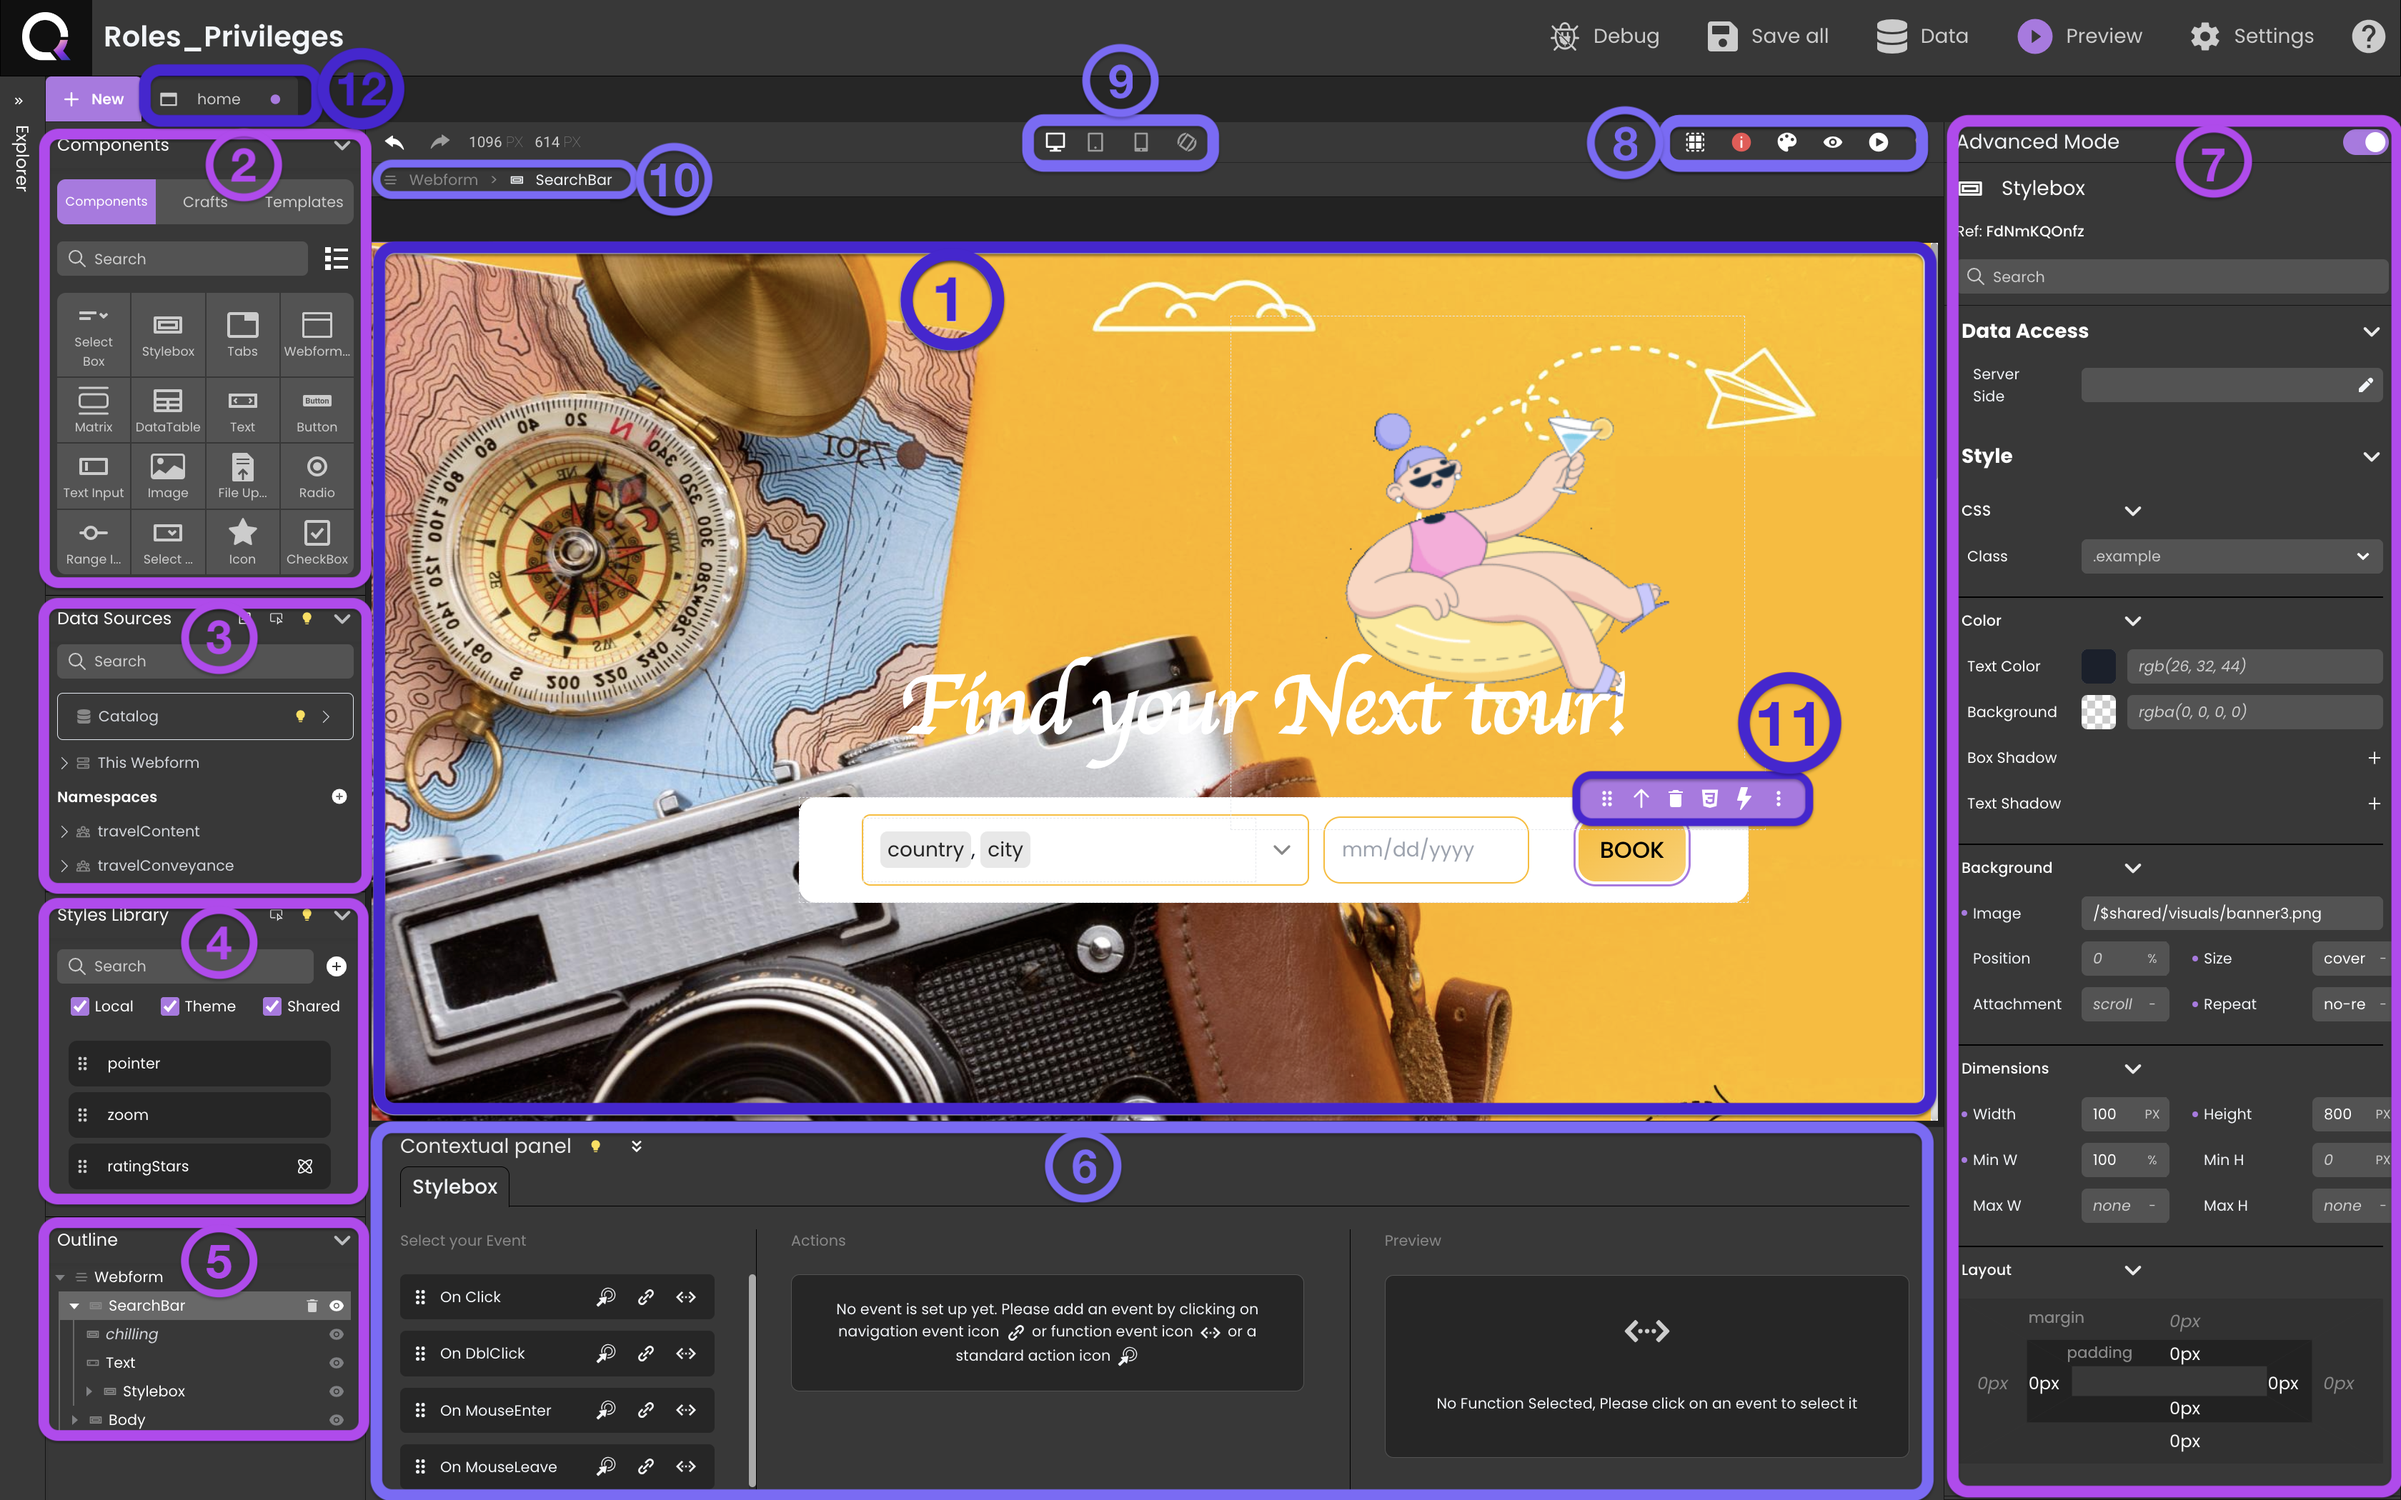
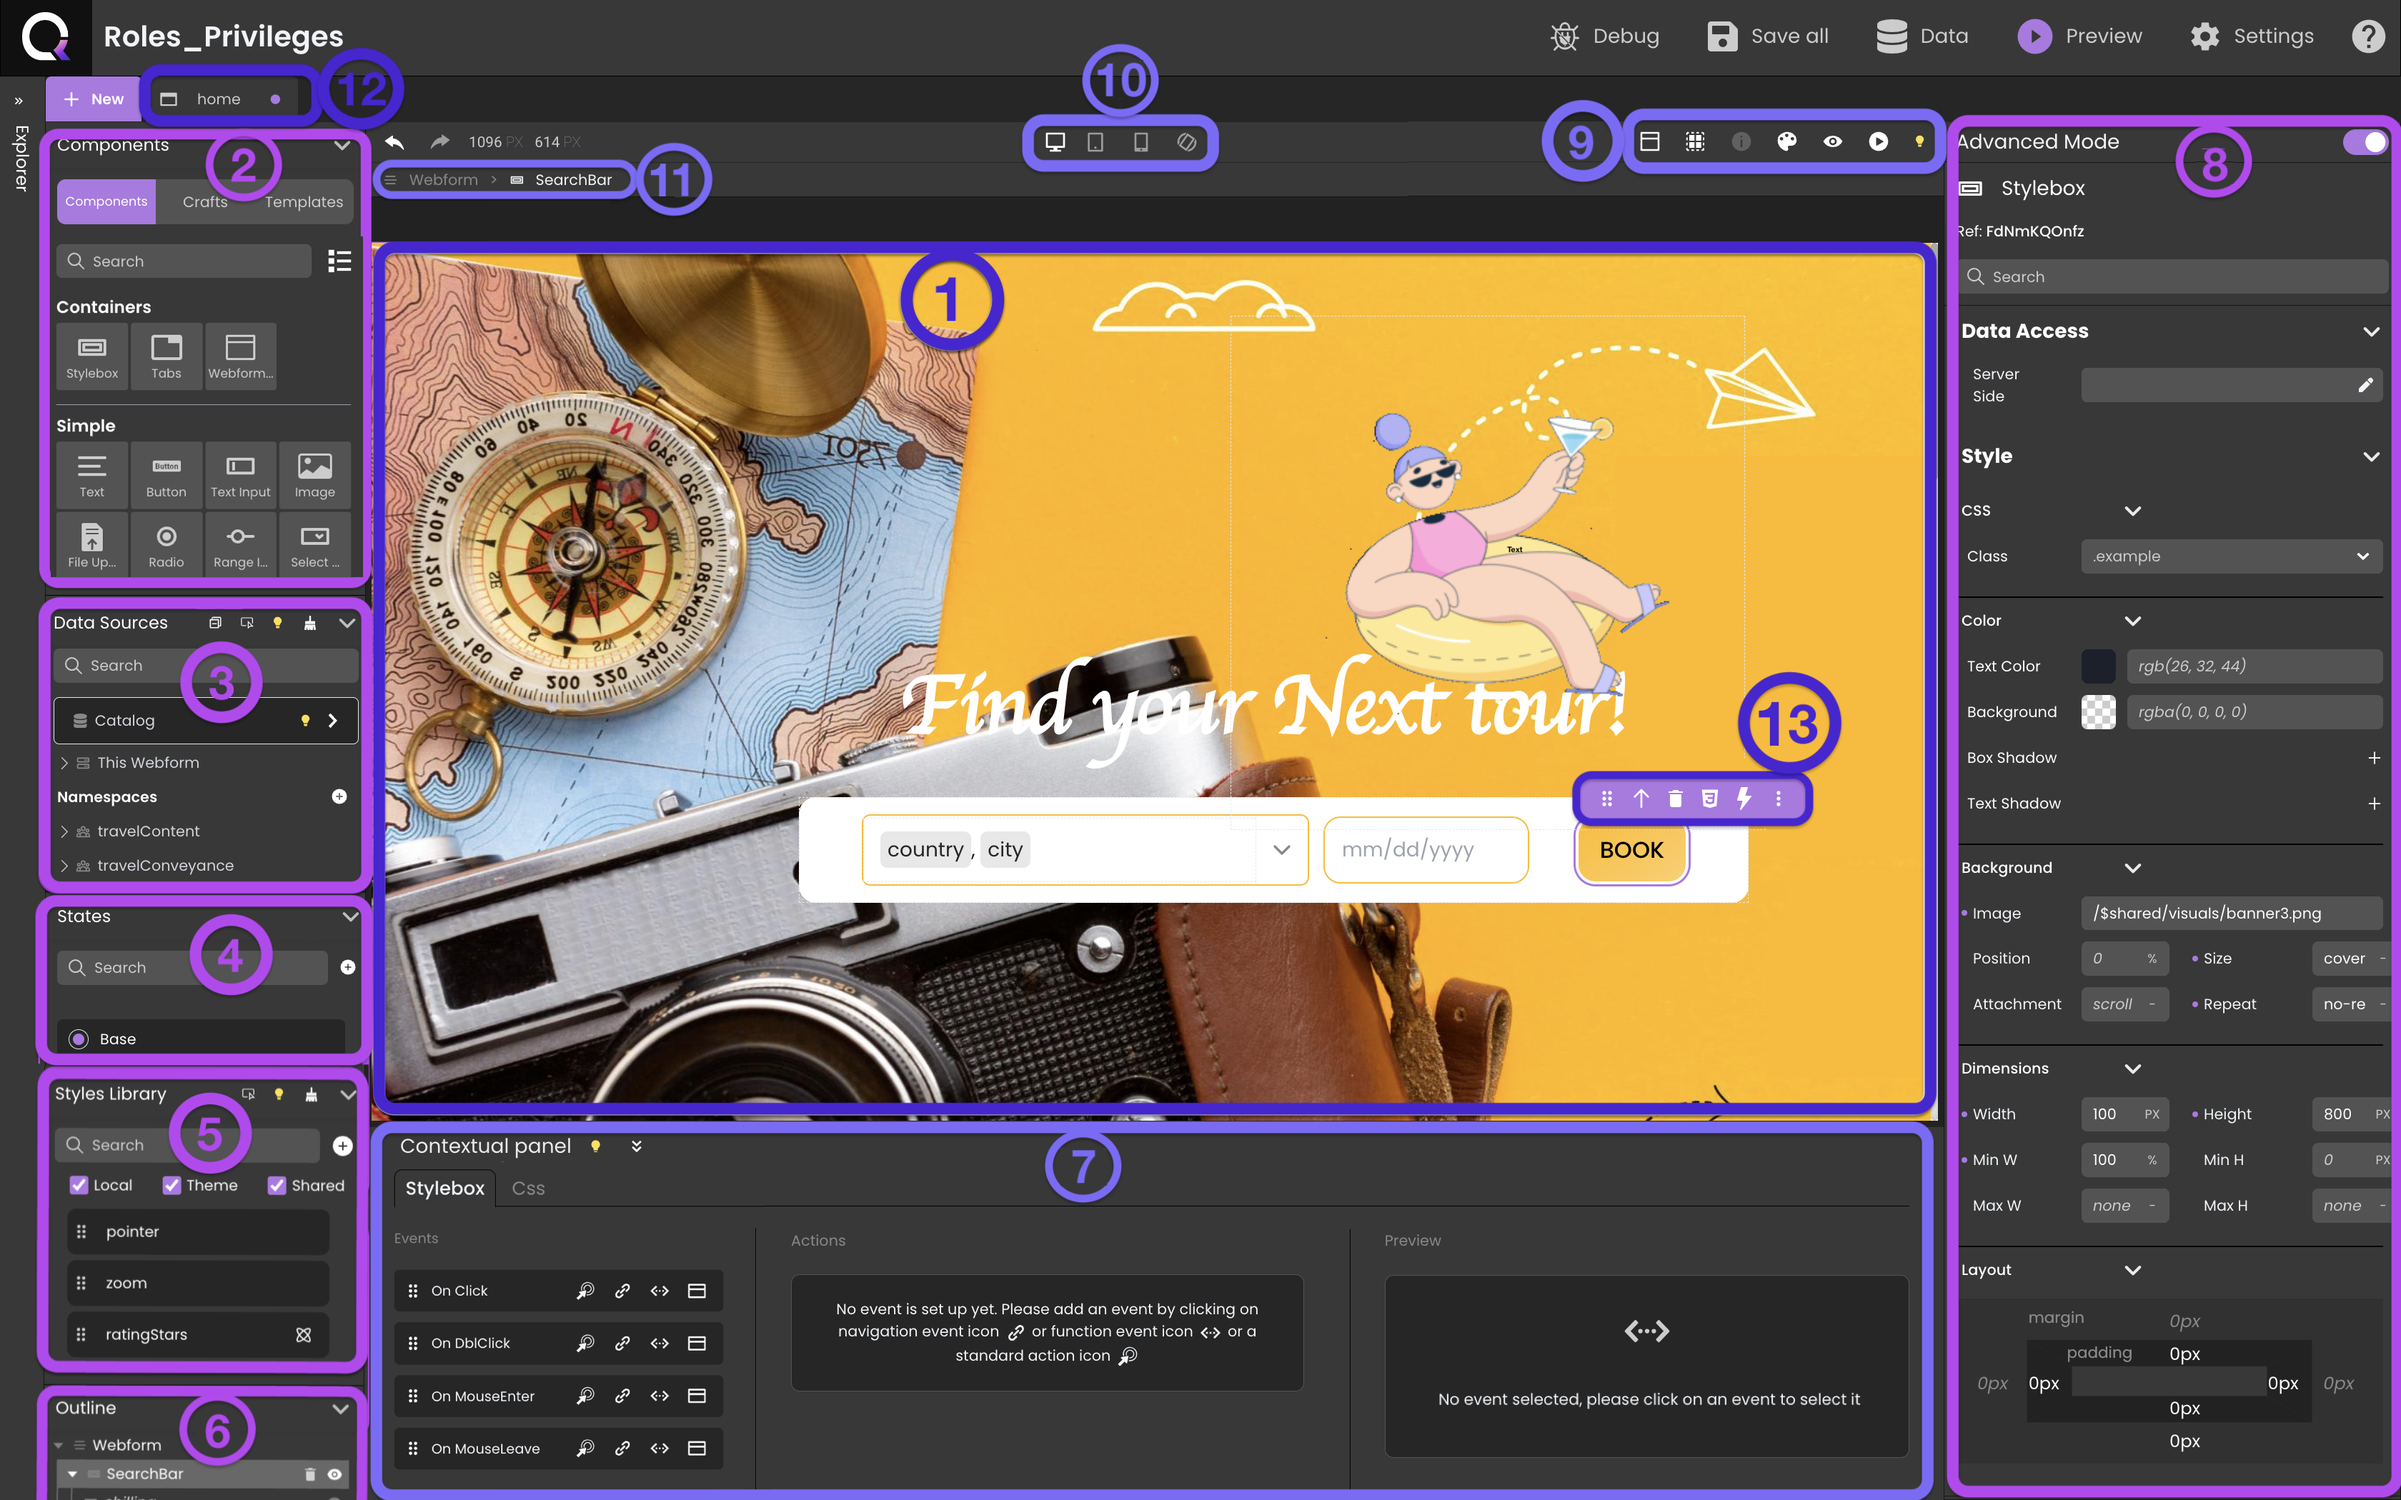
Enhanced Ergonomics in Component Design

diff --git a/docs/studio/design-webforms/create-webform.md b/docs/studio/design-webforms/create-webform.md
@@ -34,16 +34,17 @@ Empowering your application's interface and content customization, the Webform E
 1. **Canvas**: The workspace for assembling components, styles, and datasources. You can drag and drop components, apply CSS, and preview webforms.
 2. [**Components**](components/componentsBasics.md):  Fundamental building blocks for dynamic user interfaces.
 3. [**Data Sources**](datasources.md):Connectors linked to components for data display and management.
-4. [**Styles Library**](styling.md): Stores pre-defined and customized styles for easy application.
-5. [**Outline**](#outline): Visual hierarchy representation, aiding structural understanding and element repositioning.
-6. [**Contextual panel**](#contextual-panel): Binds functions, actions to events as well as serves as an interface for css class modifications.
-7. [**Properties panel**](#properties-panel): Customizes component attributes for tailored behavior and appearance.
-8. [**Header panel**](#header-panel): Simplifies project management for streamlined tracking.
-9. **Device toolbar**: Coming Soon.
+4. [**States**](states.md): 
+5. [**Styles Library**](styling.md): Stores pre-defined and customized styles for easy application.
+6. [**Outline**](#outline): Visual hierarchy representation, aiding structural understanding and element repositioning.
+7. [**Contextual panel**](#contextual-panel): Binds functions, actions to events as well as serves as an interface for css class modifications.
+8. [**Properties panel**](#properties-panel): Customizes component attributes for tailored behavior and appearance.
+9. [**Header panel**](#header-panel): Simplifies project management for streamlined tracking.
+10. **Device toolbar**: Coming Soon.
 <!-- Simulates how a website looks and functions on various devices and screen sizes for testing and optimization. -->
-10. [**Breadcrumbs**](#breadcrumbs): Displays component hierarchy for navigation.
-11. [**Tooltip**](components/componentsBasics#tooltip): Offers efficient component management and manipulation actions.
+11. [**Breadcrumbs**](#breadcrumbs): Displays component hierarchy for navigation.
 12. [**Tabs**](../overview.md#tabs): Organizes open webforms and all other open elements, including [class functions](../coding#classes), [model](../model/model-editor-interface.md), etc. 
+13. [**Tooltip**](components/componentsBasics#tooltip): Offers efficient component management and manipulation actions.
 
 ## Breadcrumbs
 

diff --git a/docs/studio/design-webforms/components/componentsBasics.md b/docs/studio/design-webforms/components/componentsBasics.md
@@ -12,8 +12,22 @@ Components are the fundamental building blocks that constitute your application'
 
 ## Locating Components
 
-Components are conveniently accessible from the left side panel in the **Components** tab section. This panel serves as a hub where you can explore and select the components you need to design your application's interface.
-
+<Column.List align="center" justifyContent="between">
+    <Column.Item width="60%">
+        Components are located in the <strong>Components</strong> tab on the left side panel. Components are systematically organized into distinct categories, simplifying the search and selection process:
+        <br/><br/>
+        <li><strong>Containers</strong>: Components that encapsulate other components and manage their placement.</li>
+        <br/><br/>
+        <li><strong>Simple</strong>: Components that display scalar or native data, images, and facilitate user actions</li>
+        <br/><br/>
+        <li><strong>List</strong>: Components that iterate over datasources and manage user interactions with this data.</li>
+        <br/><br/>
+        <li><strong>Custom Components</strong>: These are external React components that have been imported into Qodly by the user.</li>
+    </Column.Item>
+    <Column.Item width="30%">
+        <img src={require('./img/locatingComponents.png').default} style={{borderRadius: '6px'}} />
+    </Column.Item>
+</Column.List>
 
 
 ## Adding Components
